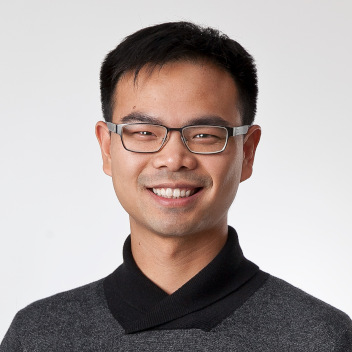
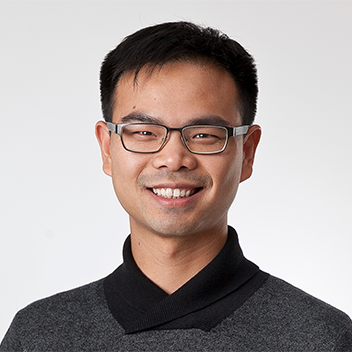
website latest update (#44)
* team page 1st draft

* updated team member avatars and company logos

* update member data, UI effects

* update for team member data

* minor update on team profile desc

* latest update for team members, no-cache headers, css fixes

diff --git a/src/components/team/members.ts b/src/components/team/members.ts
@@ -18,7 +18,7 @@ import rtpImg from './members/rtp.png';
 import stefanImg from './members/stefan.png';
 import tianImg from './members/tian.png';
 import timImg from './members/tim.png';
-import weileiImg from './members/weilei.png';
+//import weileiImg from './members/weilei.png';
 import vukasinImg from './members/vukasin.png';
 import yuvalImg from './members/yuval.png';
 
@@ -40,7 +40,7 @@ const members: Profile[] = [
     twitter: 'https://twitter.com/mijovic988',
     linkedIn: 'https://www.linkedin.com/in/mijovic88',
     github: 'https://github.com/mijovic',
-    desc: 'Đorđe has 11 years of software engineering experience including work at Microsoft and a couple of computer vision startups. Prior to starting Tempus with David, Đorđe worked as a core solidity compiler developer at Ethereum Foundation.',
+    desc: 'Đorđe takes responsibility for technological oversight at Tempus. Before co-founding Tempus with David, he worked as a core Solidity compiler developer at Ethereum Foundation.',
   },
   {
     name: 'Alex B',
@@ -50,7 +50,7 @@ const members: Profile[] = [
     twitter: 'https://twitter.com/alexberegszaszi',
     linkedIn: 'https://www.linkedin.com/in/alexberegszaszi/',
     github: 'https://github.com/axic',
-    desc: 'GM.',
+    desc: 'Alex B enjoys thinking about protocol designs at Tempus. He has worked in embedded software development, fintech, and for the past 10 years with blockchain systems.',
   },
   {
     name: 'Alex H',
@@ -59,7 +59,7 @@ const members: Profile[] = [
     title: 'Operations Manager',
     twitter: 'https://twitter.com/alexhirsu',
     linkedIn: 'https://www.linkedin.com/in/alex-hirsu-14838177/',
-    desc: 'Alex has had more than 4 years of experience in Operations and Expansion at both late-stage companies like HP Enterprise and Uber, and early-stage startups like Voi Technology.',
+    desc: "Alex H is responsible for ensuring Tempus operates smoothly. He has over 4 years' of experience at both late-stage companies (e.g. HP Enterprise and Uber) and early-stage startups such as Voi Technology.",
   },
   {
     name: 'Cristiano',
@@ -68,7 +68,7 @@ const members: Profile[] = [
     title: 'Quantitative Analyst',
     twitter: 'https://twitter.com/Cristianoventr2',
     linkedIn: 'https://www.linkedin.com/in/cristiano-ventricelli-844b7077/',
-    desc: 'Cristiano has more than 7 years of experience in financial modeling and risk analytics matured in banks, insurance companies and asset management firms.',
+    desc: "Cristiano is our resident quantitative guru. He has over 7 years' experience in financial modeling and risk analytics in banks, insurance companies, and asset management firms.",
   },
   {
     name: 'Daniele',
@@ -78,7 +78,7 @@ const members: Profile[] = [
     twitter: 'https://twitter.com/_danieledamiani',
     linkedIn: 'https://www.linkedin.com/in/danieledamiani/',
     github: 'https://github.com/danieledamiani',
-    desc: "Daniele's experience ranges from startups to corporates, in a wide array of industries such as Gaming, Insurtech, Fintech, Banking and now DeFi. Main focus is Front-end development in all flavours.",
+    desc: "Daniele is one of Tempus' frontend engineers. He has worked in a wide array of industries, including gaming, insurance, fintech, banking, and now DeFi.",
   },
   {
     name: 'Dhruv',
@@ -86,7 +86,7 @@ const members: Profile[] = [
     avatar: dhruvImg,
     title: 'Business Development Manager',
     linkedIn: 'https://www.linkedin.com/in/dhruv-bhatia-2719738a',
-    desc: 'Prior to joining Tempus, Dhruv worked as a debt finance lawyer at a US law firm where he represented private equity sponsors on leveraged acquisitions.',
+    desc: "Dhruv manages relationships with Tempus' partners. Before joining Tempus, Dhruv worked as a debt finance lawyer at a major US law firm where he represented private equity sponsors on leveraged acquisitions.",
   },
   {
     name: 'George',
@@ -94,7 +94,7 @@ const members: Profile[] = [
     avatar: georgeImg,
     title: 'Head of Research',
     linkedIn: 'https://www.linkedin.com/in/george-cao-3aa07625/',
-    desc: 'George has over 15 years experiences working in global hedge fund, investment banks, fintech company, doing research, training and trading.',
+    desc: "George heads up research at Tempus. He has over 15 years' experience working in global hedge funds, investment banks, and fintechs, where he has researched, trained, and traded.",
   },
   {
     name: 'Irinel',
@@ -104,7 +104,7 @@ const members: Profile[] = [
     twitter: 'https://twitter.com/TapalagaIrinel',
     linkedIn: 'https://www.linkedin.com/in/irinel-tapalaga/',
     github: 'https://github.com/irinelT',
-    desc: '5 years of manual and automated QA. PhD in Physics, experience in Data Science and a published per review paper on AI implementation.',
+    desc: "Irinel is responsible for ensuring Tempus meets specified requirements. He has over 5 years' experience of manual and automated QA. He also has a PhD in Physics.",
   },
   {
     name: 'Jorma',
@@ -114,7 +114,7 @@ const members: Profile[] = [
     twitter: 'https://twitter.com/jorma_rebane',
     linkedIn: 'https://www.linkedin.com/in/jorma-rebane-319067126/',
     github: 'https://github.com/RedFox20',
-    desc: 'Jorma has over 12 years of software engineering experience with high performance computing and high frequency trading, now bringing his knowledge to improve Tempus.',
+    desc: "Jorma is one of Tempus' blockchain engineers. He has over 12 years' software engineering experience with high performance computing and high frequency trading.",
   },
   {
     name: 'Josh',
@@ -123,7 +123,7 @@ const members: Profile[] = [
     title: 'Business Development Manager',
     twitter: 'https://twitter.com/joshkez95',
     linkedIn: 'https://www.linkedin.com/in/joshuakelly35/',
-    desc: 'Before joining Tempus, Josh worked as a financial services regulatory lawyer (first at Allen & Overy, then at Farrer & Co).',
+    desc: 'Josh is responsible for building new partnerships with Tempus. Before joining the crypto scene, he previously worked as a financial services regulatory lawyer.',
   },
   {
     name: 'Lazar',
@@ -132,14 +132,14 @@ const members: Profile[] = [
     title: 'Frontend Engineer',
     linkedIn: 'https://www.linkedin.com/in/lazarmitic/',
     github: 'https://github.com/lazarmitic',
-    desc: 'Lazar has over 6 years of software engineering experience. Previously worked as a software graphics engineer making 3D and VR applications. He joined Tempus in mid 2021 to make DeFi an awesome place for everyone.',
+    desc: "Lazar is one of Tempus' frontend engineers. He has over 6 years' software engineering experience. Before joining Tempus, he worked as a software graphics engineer making 3D and VR applications.",
   },
   {
     name: 'Olaf',
     fullname: 'Olaf Kuusik',
     avatar: olafImg,
     title: 'UX Designer',
-    desc: 'Olaf is a UX/UI Designer for Tempus. He has over 8+ years of prior experience as a designer working in both traditional finance and various design agencies making web and product designs.',
+    desc: "Olaf is responsible for making Tempus as easy to use as possible. He has over 8 years' experience as a designer working in both traditional finance and various design agencies making web and product designs.",
   },
   {
     name: 'Pujeet',
@@ -148,7 +148,7 @@ const members: Profile[] = [
     title: 'Business Development Manager',
     twitter: 'https://twitter.com/pujeetmanot',
     linkedIn: 'https://www.linkedin.com/in/pujeetmanot/',
-    desc: 'Pujeet is an MSc Economics student at the London School of Economics and is the Director of the London Blockchain Labs.',
+    desc: "Pujeet handles Tempus' relationship with its various partners. He is an MSc Economics student at the London School of Economics and is also the Director of London Blockchain Labs.",
   },
   {
     name: 'Richard',
@@ -157,14 +157,14 @@ const members: Profile[] = [
     title: 'Product Manager',
     twitter: 'https://twitter.com/RTPthefirst',
     linkedIn: 'https://www.linkedin.com/in/rtp/',
-    desc: "Richard is a Product Manager at Tempus Labs, responsible for shipping products users love. He previously worked at some of the largest banks focused on global markets and derivatives. He has a Master's degree in Cognitive and Decision Sciences from UCL.",
+    desc: 'Richard is responsible for shipping products that users love. He previously worked at some of the largest banks focusing on global markets and derivatives. He also has a Masters degree in Cognitive and Decision Sciences from UCL.',
   },
   {
     name: 'Stefan',
     fullname: 'Stefan Vitorović',
     avatar: stefanImg,
     title: 'Blockchain Engineer',
-    desc: 'Blockchain and smart contract engineer with 8+ years of Full Stack and System Architect experience in developing and implementing different systems. Before Tempus, worked on Composable Finance and a few projects such as Glide Finance.',
+    desc: "Stefan is one of Tempus' blockchain engineers. He has over 8 years' full stack and system architect experience in developing and implementing different systems. Before joining Tempus, Stefan worked at Composable Finance.",
   },
   {
     name: 'Tian-Yuan',
@@ -172,7 +172,7 @@ const members: Profile[] = [
     avatar: tianImg,
     title: 'UX Designer',
     twitter: 'https://twitter.com/spidertianz',
-    desc: 'Tian is a product designer at Tempus Labs who has been designing both Web2 & Web3 products such as with RBC, Paymi, Flinks, ConsenSys, Kleros, and Valora ever since 2015 when I first met Vitalik Buterin as a student specializing in human factors engineering.',
+    desc: 'Tian wants to make Tempus as accessible as possible for users. He has been designing both Web2 and Web3 products at companies such as RBC, Paymi, Flinks, ConsenSys, Kleros, and Valora, which was inspired when he met Vitalik Buterin in 2015 while a student.',
   },
   {
     name: 'Tim',
@@ -181,7 +181,7 @@ const members: Profile[] = [
     title: 'Frontend Engineer',
     twitter: 'https://twitter.com/shawtim_eth',
     github: 'https://github.com/ShawTim/',
-    desc: 'Tim has 8+ yrs of experiences in IBM and 5+ yrs in several startups as a developer who is professional on web and blockchain technology. DOGE meme lover.',
+    desc: "Tim is one of Tempus' frontend engineers. He worked at IBM for over 8 years and for a further 5 years as a developer in various startups. He is also a Doge meme lover.",
   },
   {
     name: 'Vukašin',
@@ -191,7 +191,7 @@ const members: Profile[] = [
     twitter: 'https://twitter.com/iamvukasin',
     linkedIn: 'https://linkedin.com/in/vukasin-manojlovic',
     github: 'https://github.com/iamvukasin',
-    desc: 'Vukašin has more than 1.5 years of software engineering experience. Before joining Tempus, has was an intern at the Microsoft Mixed Reality & AI Lab team and worked as an iOS developer at a Swiss video-oriented start-up.',
+    desc: "Vukašin is one of Tempus' frontend engineers. Before joining Tempus, he was an intern at the Microsoft Mixed Reality & AI Lab team and worked as an iOS developer at a Swiss video-oriented start-up.",
   },
   /*
   {
@@ -201,7 +201,7 @@ const members: Profile[] = [
     title: 'Head of Growth',
     twitter: 'https://twitter.com/WeileiY',
     linkedIn: 'https://www.linkedin.com/in/weileiyu',
-    desc: 'With 5 years of experience growing crypto ecosystems, Weilei was previously the Head of Marketing at Flow blockchain, leading the public launch and global growth. Before that, he led the adoption of Streamr on Ethereum in 2017.',
+    desc: 'Weilei is responsible for growing Tempus. He was previously the Head of Marketing at Flow blockchain, leading its public launch and global growth. Before that, he led the adoption of Streamr on Ethereum in 2017.',
   },
   */
   {
@@ -211,7 +211,7 @@ const members: Profile[] = [
     title: 'Blockchain Engineer',
     linkedIn: 'https://www.linkedin.com/in/yuval-weiss-610b5816a/',
     github: 'https://github.com/yuval-weiss',
-    desc: 'Yuval has over 5 years of experience as a software engineer at both web3 startups such as Bancor, and web2 software companies such as Microsoft.',
+    desc: "Yuval is one of Tempus' blockchain engineers. He has over 5 years' experience at both Web3 startups such as Bancor and Web2 software companies like Microsoft.",
   },
 ];
 

diff --git a/src/components/team/profile/profile.scss b/src/components/team/profile/profile.scss
@@ -11,13 +11,17 @@
     overflow: hidden;
 
     img {
+      position: relative;
       width: 176px;
       height: 176px;
+      z-index: 1;
     }
   }
 
   .tf__team-page__profile-social {
+    position: relative;
     height: 24px;
+    z-index: 1;
 
     button {
       border: none;
@@ -32,12 +36,15 @@
     }
   }
 
-  &:nth-of-type(3),
-  &:nth-of-type(5),
-  &:nth-of-type(7),
-  &:nth-of-type(21),
-  &:nth-of-type(23),
-  &:nth-of-type(25) {
+  .tf__typography-desktop,
+  .tf__typography-mobile {
+    position: relative;
+    z-index: 1;
+  }
+
+  &:nth-of-type(18n + 3),
+  &:nth-of-type(18n + 5),
+  &:nth-of-type(18n + 7) {
     .tf__team-page__profile-pic::before {
       content: ' ';
       position: absolute;
@@ -56,11 +63,9 @@
     }
   }
 
-  &:nth-of-type(2),
-  &:nth-of-type(4),
-  &:nth-of-type(18),
-  &:nth-of-type(20),
-  &:nth-of-type(22) {
+  &:nth-of-type(18n),
+  &:nth-of-type(18n + 2),
+  &:nth-of-type(18n + 4) {
     .tf__team-page__profile-pic::before {
       content: ' ';
       position: absolute;
@@ -79,9 +84,9 @@
     }
   }
 
-  &:nth-of-type(9),
-  &:nth-of-type(11),
-  &:nth-of-type(13) {
+  &:nth-of-type(18n + 9),
+  &:nth-of-type(18n + 11),
+  &:nth-of-type(18n + 13) {
     .tf__team-page__profile-pic::before {
       content: ' ';
       position: absolute;
@@ -100,9 +105,9 @@
     }
   }
 
-  &:nth-of-type(6),
-  &:nth-of-type(8),
-  &:nth-of-type(10) {
+  &:nth-of-type(18n + 6),
+  &:nth-of-type(18n + 8),
+  &:nth-of-type(18n + 10) {
     .tf__team-page__profile-pic::before {
       content: ' ';
       position: absolute;
@@ -129,38 +134,33 @@
 
 .scrolled-down {
   .tf__team-page__profile {
-    &:nth-of-type(3),
-    &:nth-of-type(5),
-    &:nth-of-type(7),
-    &:nth-of-type(21),
-    &:nth-of-type(23),
-    &:nth-of-type(25) {
+    &:nth-of-type(18n + 3),
+    &:nth-of-type(18n + 5),
+    &:nth-of-type(18n + 7) {
       .tf__team-page__profile-pic::before {
         transform: translate(-1775px, -39px) rotate(30deg) translateX(-2000px);
       }
     }
 
-    &:nth-of-type(2),
-    &:nth-of-type(4),
-    &:nth-of-type(18),
-    &:nth-of-type(20),
-    &:nth-of-type(22) {
+    &:nth-of-type(18n),
+    &:nth-of-type(18n + 2),
+    &:nth-of-type(18n + 4) {
       .tf__team-page__profile-pic::before {
         transform: translate(-1775px, -39px) rotate(30deg);
       }
     }
 
-    &:nth-of-type(9),
-    &:nth-of-type(11),
-    &:nth-of-type(13) {
+    &:nth-of-type(18n + 9),
+    &:nth-of-type(18n + 11),
+    &:nth-of-type(18n + 13) {
       .tf__team-page__profile-pic::before {
         transform: translate(-39px, -39px) rotate(30deg) translateX(2000px);
       }
     }
 
-    &:nth-of-type(6),
-    &:nth-of-type(8),
-    &:nth-of-type(10) {
+    &:nth-of-type(18n + 6),
+    &:nth-of-type(18n + 8),
+    &:nth-of-type(18n + 10) {
       .tf__team-page__profile-pic::before {
         transform: translate(-39px, -39px) rotate(30deg);
       }

diff --git a/src/components/team/teamPage.tsx b/src/components/team/teamPage.tsx
@@ -1,4 +1,4 @@
-import { useCallback, useState } from 'react';
+import { useCallback, useEffect, useState } from 'react';
 import { InView } from 'react-intersection-observer';
 import Spacer from '../spacer/spacer';
 import Typography from '../typography/typography';
@@ -20,6 +20,10 @@ import './teamPage.scss';
 const TeamPage = () => {
   const [scrolledDown, setScrolledDown] = useState<boolean>(false);
   const setInView = useCallback((inView) => setScrolledDown(inView), [setScrolledDown]);
+
+  useEffect(() => {
+    window.scrollTo(0, 0);
+  }, []);
 
   return (
     <div className={`tf__team-page ${scrolledDown ? 'scrolled-down' : ''}`}>
